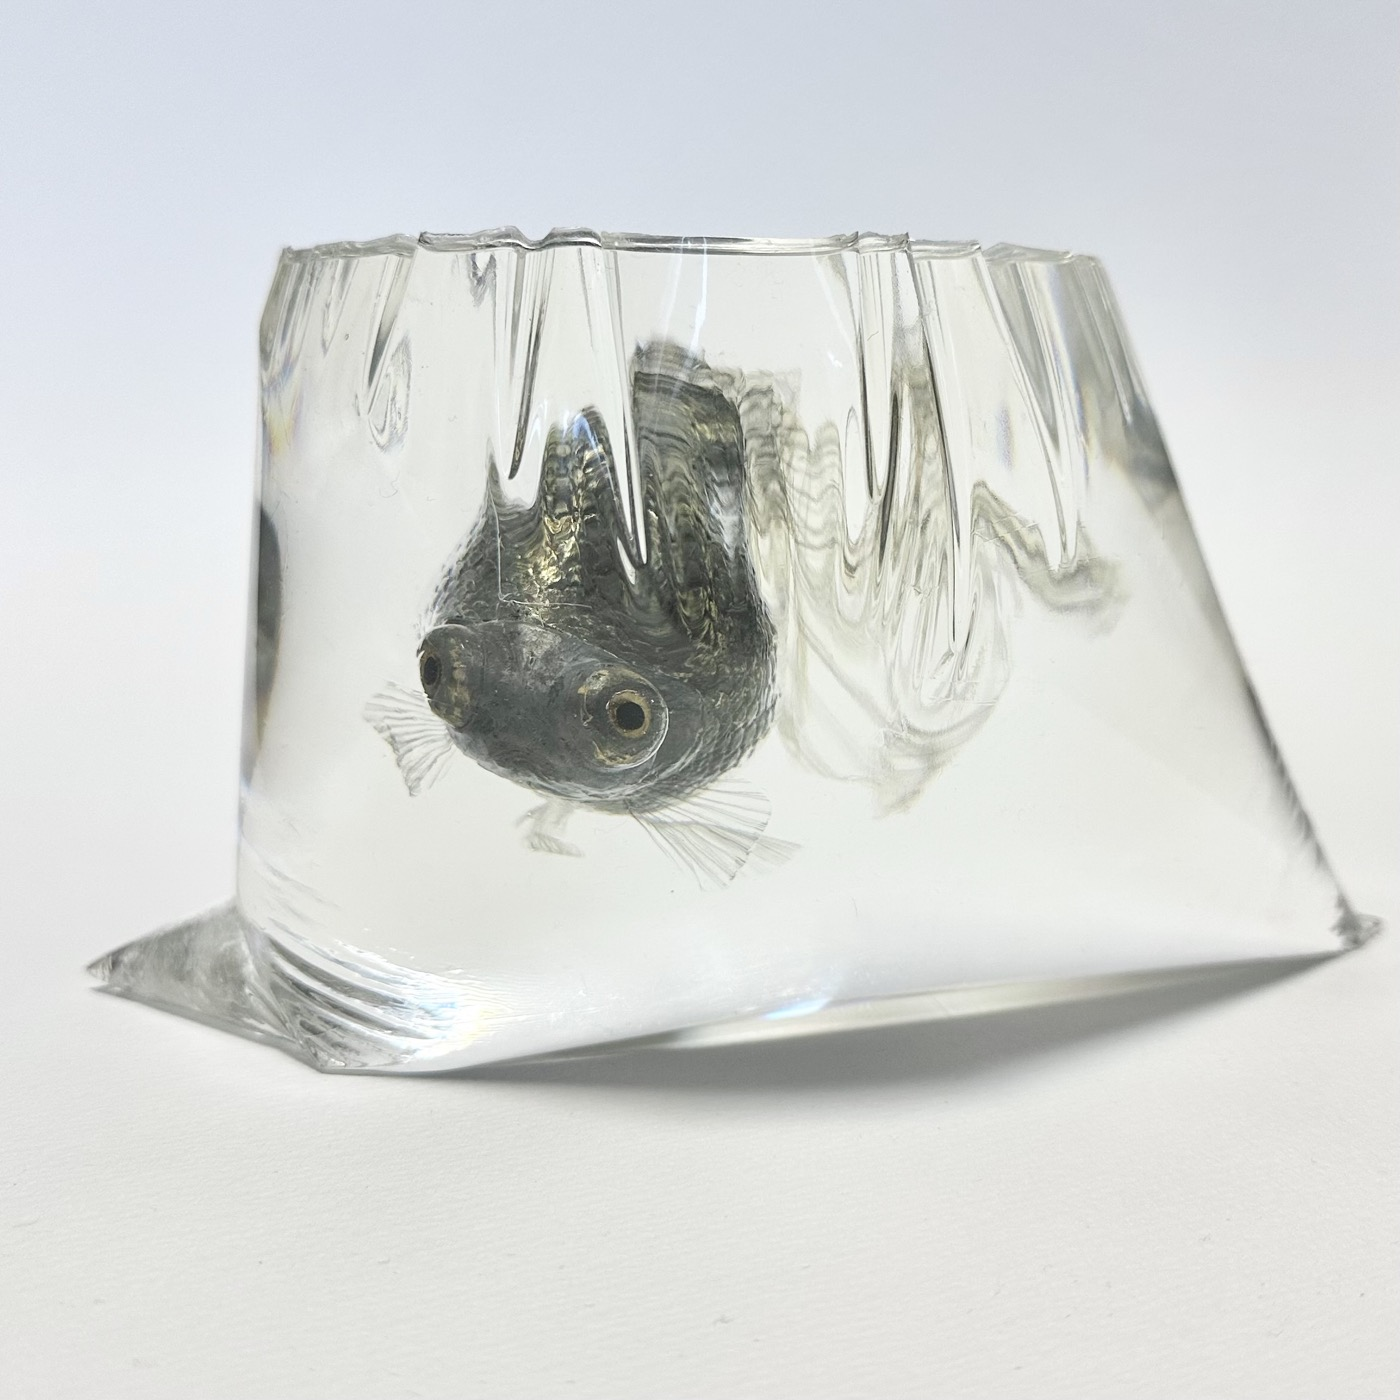
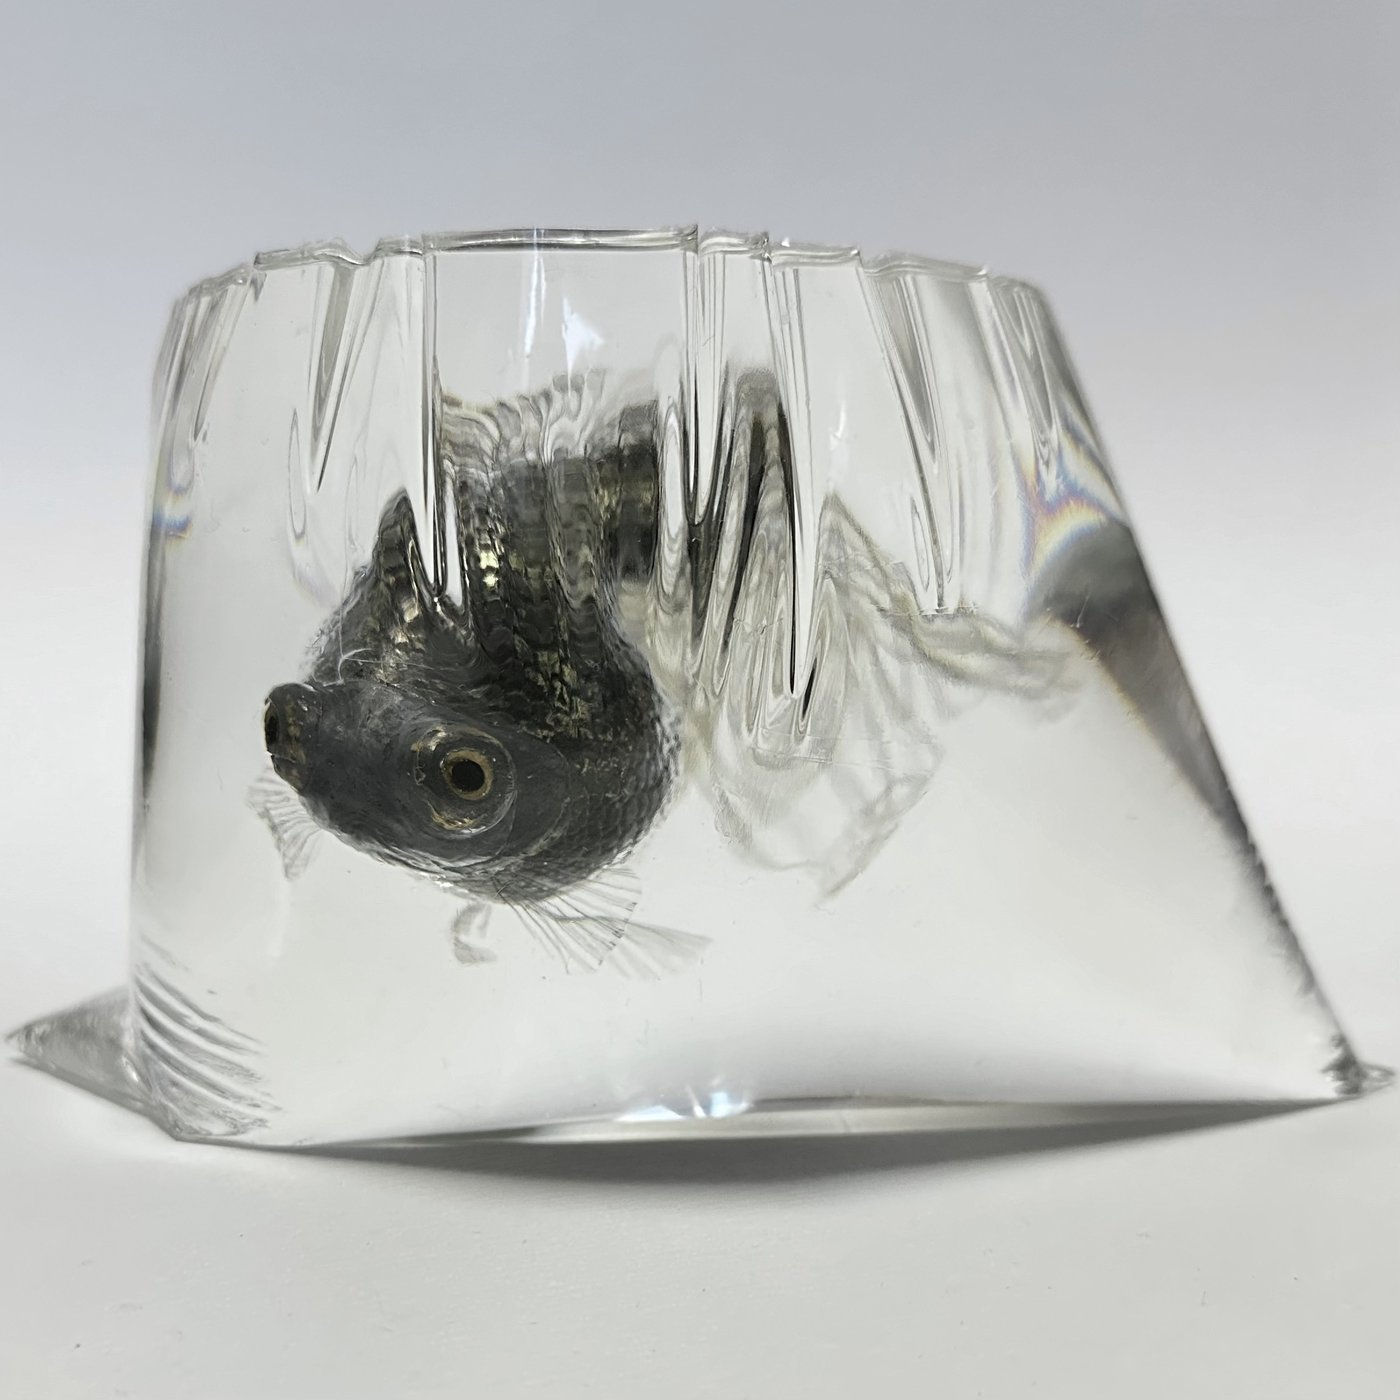
作品一覧に19点の写真を追加(高確度で判別できたもの)
茶銀蟇蛙・茶銀雨ノ蛙・銀水玉珍珠鱗・銀黒頂天眼・青和金・黄朽葉頂天眼・
黒和金・黒浅葱水泡眼・緋色和金・苺飴・黒蝶尾・大黒蘭鋳・黒蘭鋳・
溶解変化・鉄ノ鯨・甘蕉ノ皮・蓑亀を追加。黒珍珠鱗・黒頂天眼は写真を
更新。雨ノ蛙の色違いシリーズ8点は写真の判別が難しいため保留。

diff --git a/works/index.html b/works/index.html
@@ -438,10 +438,10 @@ if (/(?:^|[?&])admin=1(?:&|$)/.test(location.search)){
     { id:"w20", title:"白蘭鋳", year:2025, motif:"金魚（蘭鋳）", specs:[["素材","銀・銅・真鍮（アルミ入り）"],["技法","真空加圧鋳造法・石膏型・磨き・銀メッキ・樹脂封入"]], kanji:"白", img:"../img/work_w20.jpg", alt:"白蘭鋳", pos:"50% 50%" },
     { id:"w21", title:"白蝶尾", year:2025, motif:"金魚（蝶尾）", specs:[["素材","銀・銅・真鍮（アルミ入り）"],["技法","真空加圧鋳造法・石膏型・磨き・真鍮粉の擦り付け・銀メッキ・樹脂封入"]], kanji:"白", img:"../img/work_w21.jpg", alt:"白蝶尾", pos:"50% 50%" },
     { id:"kouyou", title:"紅葉", year:2025, en:"Autumn Leaves", motif:"植物（紅葉の葉）", award:"第20回 藝大アートプラザ・アートアワード 入選", desc:"純銅を紅葉の形に鋳造し、緋銅で赤く染めた。葉が色づく秋の一瞬という時間が、金属の中に留められている。", specs:[["素材","銅"],["技法","真空加圧鋳造法・石膏型・緋銅酸化・樹脂コーティング"],["展示","第20回 藝大アートプラザ・アートアワード展（2026年）<br>河﨑海斗展／新宿髙島屋（2026年7月22日〜28日）予定<br>工芸リアリズム（冊子表紙・掲載）"]], img:"../img/work_kouyou.jpg", alt:"紅葉 — 緋銅で赤く染めた鋳金の紅葉" },
-    { id:"w22", title:"茶銀蟇蛙", year:2025, motif:"ヒキガエル", specs:[["素材","銀・銅・真鍮（アルミ入り）"],["技法","真空加圧鋳造法・石膏型・磨き・硫化・銀メッキ・樹脂コーティング"]], kanji:"蟇" },
-    { id:"w23", title:"茶銀雨ノ蛙", year:2025, motif:"カエル", specs:[["素材","銀・銅・真鍮（アルミ入り）"],["技法","真空加圧鋳造法・石膏型・磨き・硫化・銀メッキ・樹脂コーティング"]], kanji:"茶" },
-    { id:"w24", title:"銀水玉珍珠鱗", year:2025, motif:"金魚（珍珠鱗）", specs:[["素材","銀・銅・真鍮（アルミ入り）"],["技法","真空加圧鋳造法・石膏型・磨き・硫化・銀メッキ・樹脂封入"]], kanji:"銀" },
-    { id:"w25", title:"銀黒頂天眼", year:2025, motif:"金魚（頂天眼）", specs:[["素材","銀・錫・真鍮（アルミ入り）"],["技法","真空加圧鋳造法・石膏型・磨き・硫化・樹脂封入"]], kanji:"銀" },
+    { id:"w22", title:"茶銀蟇蛙", year:2025, motif:"ヒキガエル", specs:[["素材","銀・銅・真鍮（アルミ入り）"],["技法","真空加圧鋳造法・石膏型・磨き・硫化・銀メッキ・樹脂コーティング"]], kanji:"蟇", img:"../img/work_w22.jpg", alt:"茶銀蟇蛙", pos:"50% 50%" },
+    { id:"w23", title:"茶銀雨ノ蛙", year:2025, motif:"カエル", specs:[["素材","銀・銅・真鍮（アルミ入り）"],["技法","真空加圧鋳造法・石膏型・磨き・硫化・銀メッキ・樹脂コーティング"]], kanji:"茶", img:"../img/work_w23.jpg", alt:"茶銀雨ノ蛙", pos:"50% 50%" },
+    { id:"w24", title:"銀水玉珍珠鱗", year:2025, motif:"金魚（珍珠鱗）", specs:[["素材","銀・銅・真鍮（アルミ入り）"],["技法","真空加圧鋳造法・石膏型・磨き・硫化・銀メッキ・樹脂封入"]], kanji:"銀", img:"../img/work_w24.jpg", alt:"銀水玉珍珠鱗", pos:"22% 41%" },
+    { id:"w25", title:"銀黒頂天眼", year:2025, motif:"金魚（頂天眼）", specs:[["素材","銀・錫・真鍮（アルミ入り）"],["技法","真空加圧鋳造法・石膏型・磨き・硫化・樹脂封入"]], kanji:"銀", img:"../img/work_w25.jpg", alt:"銀黒頂天眼", pos:"50% 50%" },
     { id:"w26", title:"雨ノ蛙「夜雨」", year:2025, motif:"カエル", specs:[["素材","銀・錫・真鍮（アルミ入り）"],["技法","真空加圧鋳造法・石膏型・磨き・緑青酸化・硫化・樹脂コーティング"]], kanji:"夜" },
     { id:"ame-kaeru", title:"雨ノ蛙「狐の嫁入り」", year:2025, en:"Rain Frog: The Fox's Wedding", motif:"カエル", desc:"ガラス、光、色、背景。その条件のなかで、カエルは別の存在として立ち上がる。", specs:[["素材","銀・銅・真鍮（アルミ入り）"],["技法","真空加圧鋳造法・石膏型・磨き・硫化・銀メッキ・樹脂コーティング"]], kanji:"雨", img:"../img/work_ame-kaeru.jpg", alt:"雨ノ蛙「狐の嫁入り」", pos:"50% 50%" },
     { id:"w27", title:"雨ノ蛙「白雨」", year:2025, motif:"カエル", specs:[["素材","銀・銅・真鍮（アルミ入り）"],["技法","真空加圧鋳造法・石膏型・磨き・硫化・銀メッキ・樹脂コーティング"]], kanji:"白" },
@@ -450,27 +450,27 @@ if (/(?:^|[?&])admin=1(?:&|$)/.test(location.search)){
     { id:"w30", title:"雨ノ蛙「青葉雨」", year:2025, motif:"カエル", specs:[["素材","銀・銅・真鍮（アルミ入り）"],["技法","真空加圧鋳造法・石膏型・磨き・緑青酸化・銀メッキ・樹脂コーティング"]], kanji:"葉" },
     { id:"w31", title:"雨ノ蛙「飛雨」", year:2025, motif:"カエル", specs:[["素材","銀・銅・真鍮（アルミ入り）"],["技法","真空加圧鋳造法・石膏型・磨き・硫化・銀メッキ・樹脂コーティング"]], kanji:"飛" },
     { id:"w32", title:"雨粒蛙「夜雨」", year:2025, motif:"アマガエル", specs:[["素材","銀・銅・真鍮（アルミ入り）"],["技法","真空加圧鋳造法・石膏型・磨き・硫化・銀メッキ・樹脂コーティング"]], kanji:"夜" },
-    { id:"w33", title:"青和金", year:2025, motif:"金魚（和金）", specs:[["素材","銀・銅・真鍮（アルミ入り）"],["技法","真空加圧鋳造法・石膏型・磨き・焼き色酸化・硫化・樹脂封入"]], kanji:"青" },
-    { id:"w34", title:"黄朽葉頂天眼", year:2025, motif:"金魚（頂天眼）", specs:[["素材","銀・銅・真鍮（アルミ入り）"],["技法","真空加圧鋳造法・石膏型・磨き・焼き色酸化・樹脂封入"]], kanji:"黄" },
-    { id:"w35", title:"黒和金", year:2025, motif:"金魚（和金）", specs:[["素材","銀・銅・真鍮（アルミ入り）"],["技法","真空加圧鋳造法・石膏型・磨き・硫化・樹脂封入"]], kanji:"黒" },
-    { id:"w36", title:"黒浅葱水泡眼", year:2025, motif:"金魚（水泡眼）", specs:[["素材","銀・銅・真鍮（アルミ入り）"],["技法","真空加圧鋳造法・石膏型・磨き・煮色酸化・硫化・樹脂封入"]], kanji:"浅" },
-    { id:"w37", title:"黒珍珠鱗", year:2025, motif:"金魚（珍珠鱗）", specs:[["素材","銀・銅・真鍮（アルミ入り）"],["技法","真空加圧鋳造法・石膏型・磨き・硫化・樹脂封入"]], kanji:"黒", img:"../img/work_w37.jpg", alt:"黒珍珠鱗", pos:"38% 43%" },
+    { id:"w33", title:"青和金", year:2025, motif:"金魚（和金）", specs:[["素材","銀・銅・真鍮（アルミ入り）"],["技法","真空加圧鋳造法・石膏型・磨き・焼き色酸化・硫化・樹脂封入"]], kanji:"青", img:"../img/work_w33.jpg", alt:"青和金", pos:"50% 50%" },
+    { id:"w34", title:"黄朽葉頂天眼", year:2025, motif:"金魚（頂天眼）", specs:[["素材","銀・銅・真鍮（アルミ入り）"],["技法","真空加圧鋳造法・石膏型・磨き・焼き色酸化・樹脂封入"]], kanji:"黄", img:"../img/work_w34.jpg", alt:"黄朽葉頂天眼", pos:"50% 50%" },
+    { id:"w35", title:"黒和金", year:2025, motif:"金魚（和金）", specs:[["素材","銀・銅・真鍮（アルミ入り）"],["技法","真空加圧鋳造法・石膏型・磨き・硫化・樹脂封入"]], kanji:"黒", img:"../img/work_w35.jpg", alt:"黒和金", pos:"50% 50%" },
+    { id:"w36", title:"黒浅葱水泡眼", year:2025, motif:"金魚（水泡眼）", specs:[["素材","銀・銅・真鍮（アルミ入り）"],["技法","真空加圧鋳造法・石膏型・磨き・煮色酸化・硫化・樹脂封入"]], kanji:"浅", img:"../img/work_w36.jpg", alt:"黒浅葱水泡眼", pos:"50% 50%" },
+    { id:"w37", title:"黒珍珠鱗", year:2025, motif:"金魚（珍珠鱗）", specs:[["素材","銀・銅・真鍮（アルミ入り）"],["技法","真空加圧鋳造法・石膏型・磨き・硫化・樹脂封入"]], kanji:"黒", img:"../img/work_w37.jpg", alt:"黒珍珠鱗", pos:"50% 50%" },
     { id:"shuiro-wakin", title:"朱色和金", year:2024, en:"Vermilion Wakin", motif:"金魚（和金）", award:"第19回 藝大アートプラザ・アートアワード 小学館賞", desc:"真鍮で鋳込まれた金魚の肌に、酸化銅の粉末を幾度も擦り込んでいく。赤は熱と急冷が生むのではなく、手の反復という条件のなかで定着する。", specs:[["素材","銀・銅・真鍮（アルミ入り）"],["技法","真空加圧鋳造法・石膏型・磨き・第一酸化銅の擦り付け・樹脂封入"],["展示","第19回 藝大アートプラザ・アートアワード展（2025年）<br>河﨑海斗展／新宿髙島屋（2026年7月22日〜28日）予定"]], img:"../img/work_shuiro-wakin.jpg", alt:"朱色和金 — 樹脂に封入された鋳金の和金" },
-    { id:"w38", title:"緋色和金", year:2024, en:"Scarlet Wakin", motif:"金魚（和金）", specs:[["素材","銀・銅"],["技法","真空加圧鋳造法・石膏型・磨き・緋銅酸化・樹脂封入"]], kanji:"緋" },
-    { id:"w39", title:"苺飴", year:2024, motif:"果物（苺飴）", specs:[["素材","銅"],["技法","加圧鋳造法・石膏型・緋銅酸化・樹脂コーティング"]], kanji:"苺" },
+    { id:"w38", title:"緋色和金", year:2024, en:"Scarlet Wakin", motif:"金魚（和金）", specs:[["素材","銀・銅"],["技法","真空加圧鋳造法・石膏型・磨き・緋銅酸化・樹脂封入"]], kanji:"緋", img:"../img/work_w38.jpg", alt:"緋色和金", pos:"50% 50%" },
+    { id:"w39", title:"苺飴", year:2024, motif:"果物（苺飴）", specs:[["素材","銅"],["技法","加圧鋳造法・石膏型・緋銅酸化・樹脂コーティング"]], kanji:"苺", img:"../img/work_w39.jpg", alt:"苺飴", pos:"47% 49%" },
     { id:"w40", title:"金水玉珍珠鱗", year:2024, en:"Golden-Dotted Pearlscale", motif:"金魚（珍珠鱗）", desc:"魚をつくってから置くのではない。魚が存在する場そのものを、同時に構築している。", specs:[["素材","銀・銅・真鍮（アルミ入り）"],["技法","真空加圧鋳造法・石膏型・磨き・硫化・樹脂封入"]], img:"../img/work_kinmizutama-chinshurin.jpg", alt:"金水玉珍珠鱗 — 金と黒の水玉模様の珍珠鱗" },
     { id:"w41", title:"雨粒蛙 夕立", year:2024, motif:"アマガエル", specs:[["素材","銀・銅・真鍮（アルミ入り）"],["技法","真空加圧鋳造法・石膏型・磨き・硫化・銀メッキ・樹脂コーティング"]], kanji:"夕" },
     { id:"w42", title:"黄色頂天眼", year:2024, en:"Yellow Chotengan", motif:"金魚（頂天眼）", specs:[["素材","銀・銅・真鍮（アルミ入り）"],["技法","真空加圧鋳造法・石膏型・磨き・樹脂封入"]], img:"../img/work_kiiro-chotengan.jpg", alt:"黄色頂天眼 — 透明な樹脂ブロックに封入された頂天眼" },
-    { id:"w43", title:"黒蝶尾", year:2024, en:"Black Chobi", motif:"金魚（蝶尾）", specs:[["素材","銀・銅・真鍮（アルミ入り）"],["技法","真空加圧鋳造法・石膏型・磨き・硫化・真鍮粉の擦り付け・樹脂封入"]], kanji:"黒" },
-    { id:"koku-chotengan", title:"黒頂天眼", year:2024, en:"Black Chotengan", motif:"金魚（頂天眼）", award:"第18回 藝大アートプラザ・アートアワード 審査員特別賞", desc:"上を向いて泳ぐ金魚「頂天眼」。緋銅の赤とは別の、黒という色の条件を金属に問うた作品。", specs:[["素材","銀・銅・真鍮（アルミ入り）"],["技法","真空加圧鋳造法・石膏型・磨き・硫化・樹脂封入"],["展示","第18回 藝大アートプラザ・アートアワード展（2024年）<br>藝大アートプラザ・アートアワード受賞者招待展（2024年）"]], img:"../img/work_koku-chotengan.jpg", alt:"黒頂天眼 — 樹脂に封入された黒の頂天眼" },
-    { id:"w44", title:"大黒蘭鋳", year:2023, motif:"金魚（蘭鋳）", specs:[["素材","青銅"],["技法","重力鋳造・真土型・磨き・硫化・樹脂コーティング"]], kanji:"大" },
-    { id:"w45", title:"黒蘭鋳", year:2023, motif:"金魚（蘭鋳）", specs:[["素材","銀・銅・真鍮（アルミ入り）"],["技法","真空加圧鋳造法・石膏型・磨き・硫化・樹脂封入"]], kanji:"黒" },
-    { id:"yokai-henge", title:"溶解変化", year:2022, en:"Yokai Henge", motif:"タコ（妖怪変化）", desc:"殻、隙間、重さ、身を隠す場所。その条件のなかで、タコは別の存在として立ち上がる。", specs:[["素材","青銅"],["技法","真空加圧鋳造法・石膏型・鋳肌"]], kanji:"溶" },
+    { id:"w43", title:"黒蝶尾", year:2024, en:"Black Chobi", motif:"金魚（蝶尾）", specs:[["素材","銀・銅・真鍮（アルミ入り）"],["技法","真空加圧鋳造法・石膏型・磨き・硫化・真鍮粉の擦り付け・樹脂封入"]], kanji:"黒", img:"../img/work_w43.jpg", alt:"黒蝶尾", pos:"50% 50%" },
+    { id:"koku-chotengan", title:"黒頂天眼", year:2024, en:"Black Chotengan", motif:"金魚（頂天眼）", award:"第18回 藝大アートプラザ・アートアワード 審査員特別賞", desc:"上を向いて泳ぐ金魚「頂天眼」。緋銅の赤とは別の、黒という色の条件を金属に問うた作品。", specs:[["素材","銀・銅・真鍮（アルミ入り）"],["技法","真空加圧鋳造法・石膏型・磨き・硫化・樹脂封入"],["展示","第18回 藝大アートプラザ・アートアワード展（2024年）<br>藝大アートプラザ・アートアワード受賞者招待展（2024年）"]], img:"../img/work_koku-chotengan.jpg", alt:"黒頂天眼 — 樹脂に封入された黒の頂天眼", pos:"51% 76%" },
+    { id:"w44", title:"大黒蘭鋳", year:2023, motif:"金魚（蘭鋳）", specs:[["素材","青銅"],["技法","重力鋳造・真土型・磨き・硫化・樹脂コーティング"]], kanji:"大", img:"../img/work_w44.jpg", alt:"大黒蘭鋳", pos:"50% 50%" },
+    { id:"w45", title:"黒蘭鋳", year:2023, motif:"金魚（蘭鋳）", specs:[["素材","銀・銅・真鍮（アルミ入り）"],["技法","真空加圧鋳造法・石膏型・磨き・硫化・樹脂封入"]], kanji:"黒", img:"../img/work_w45.jpg", alt:"黒蘭鋳", pos:"50% 50%" },
+    { id:"yokai-henge", title:"溶解変化", year:2022, en:"Yokai Henge", motif:"タコ（妖怪変化）", desc:"殻、隙間、重さ、身を隠す場所。その条件のなかで、タコは別の存在として立ち上がる。", specs:[["素材","青銅"],["技法","真空加圧鋳造法・石膏型・鋳肌"]], kanji:"溶", img:"../img/work_yokai-henge.jpg", alt:"溶解変化", pos:"50% 50%" },
     { id:"hakomono-ranchu", title:"箱物 蘭鋳", year:2022, en:"Hakomono: Ranchu", motif:"金魚（蘭鋳）", desc:"水の外に出た金魚は、同じ姿を保っていても、別の存在へと移行する。失われるのはかたちではなく、条件である。", specs:[["素材","銀・銅・真鍮（アルミ入り）"],["技法","真空加圧鋳造法・石膏型・磨き・銀メッキ・樹脂コーティング"],["展示","第17回 藝大アートプラザ大賞展（2023年）入選"]], img:"../img/work_hakomono-ranchu.jpg", alt:"箱物 蘭鋳 — 樹脂の直方体に封入された蘭鋳" },
-    { id:"w46", title:"鉄ノ鯨", year:2021, en:"The Iron Whale", motif:"鯨（潜水艦のような造形）", specs:[["素材","青銅"],["技法","重力鋳造・石膏型・緑青酸化・酸化チタンの焼き付け・硫化・蝋コーティング"]], kanji:"鯨" },
+    { id:"w46", title:"鉄ノ鯨", year:2021, en:"The Iron Whale", motif:"鯨（潜水艦のような造形）", specs:[["素材","青銅"],["技法","重力鋳造・石膏型・緑青酸化・酸化チタンの焼き付け・硫化・蝋コーティング"]], kanji:"鯨", img:"../img/work_w46.jpg", alt:"鉄ノ鯨", pos:"39% 40%" },
     { id:"w47", title:"イトヒキイワシ", year:2020, motif:"深海魚（イトヒキイワシ）", specs:[["素材","鉄"],["技法","鍛金（鍛造）・油焼き"]], kanji:"イト" },
-    { id:"kansho-no-kawa", title:"甘蕉ノ皮", year:2020, en:"Banana Peel", motif:"バナナの皮", desc:"壁、重力、腐敗、投げつけられた瞬間。その条件のなかで、バナナの皮は別の存在として立ち上がる。", specs:[["素材","青銅"],["技法","重力鋳造・石膏型・梨地・焼き色酸化・硫化"]], kanji:"蕉" },
-    { id:"w48", title:"蓑亀", year:2020, motif:"亀", specs:[["素材","銅"],["技法","彫金（打ち出し）・磨き・硫化・蝋コーティング"]], kanji:"蓑" },
+    { id:"kansho-no-kawa", title:"甘蕉ノ皮", year:2020, en:"Banana Peel", motif:"バナナの皮", desc:"壁、重力、腐敗、投げつけられた瞬間。その条件のなかで、バナナの皮は別の存在として立ち上がる。", specs:[["素材","青銅"],["技法","重力鋳造・石膏型・梨地・焼き色酸化・硫化"]], kanji:"蕉", img:"../img/work_kansho-no-kawa.jpg", alt:"甘蕉ノ皮", pos:"50% 50%" },
+    { id:"w48", title:"蓑亀", year:2020, motif:"亀", specs:[["素材","銅"],["技法","彫金（打ち出し）・磨き・硫化・蝋コーティング"]], kanji:"蓑", img:"../img/work_w48.jpg", alt:"蓑亀", pos:"49% 13%" },
   ];
 
   function tileVisualHTML(w){
